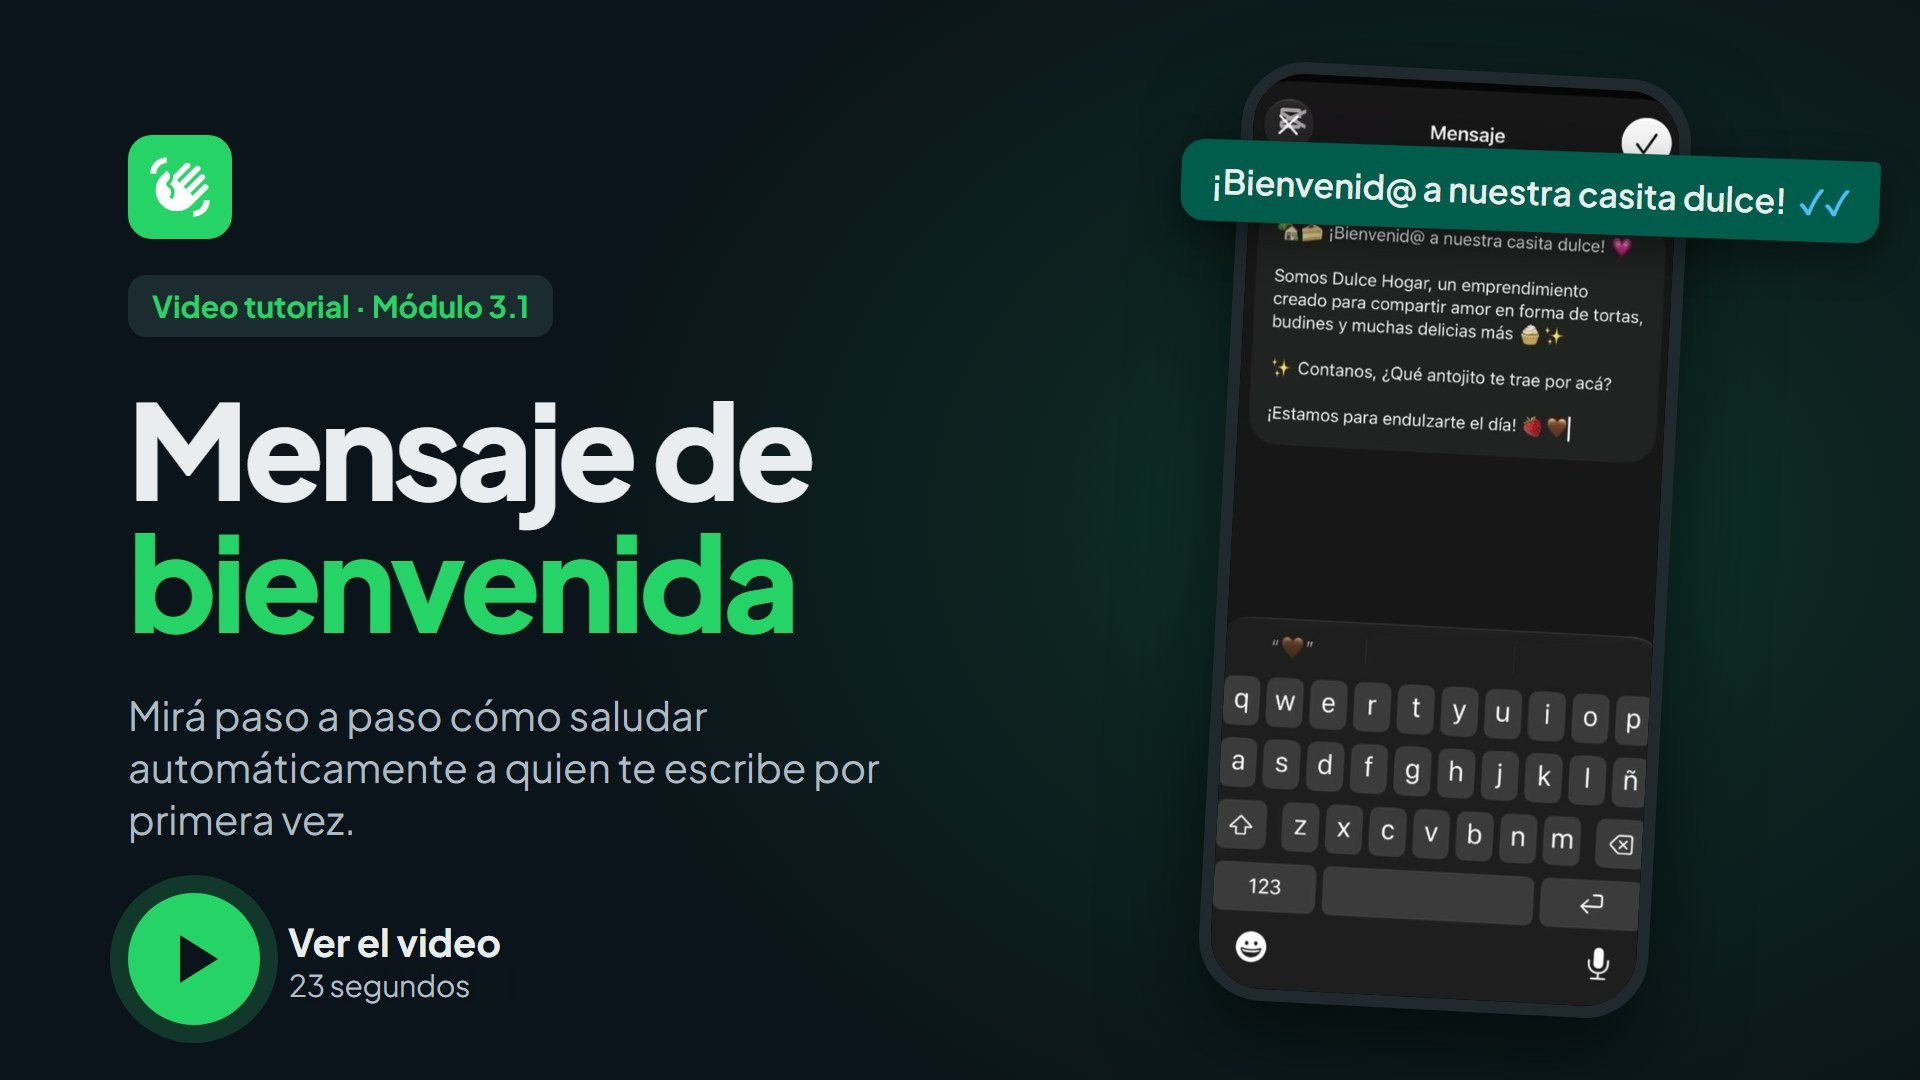
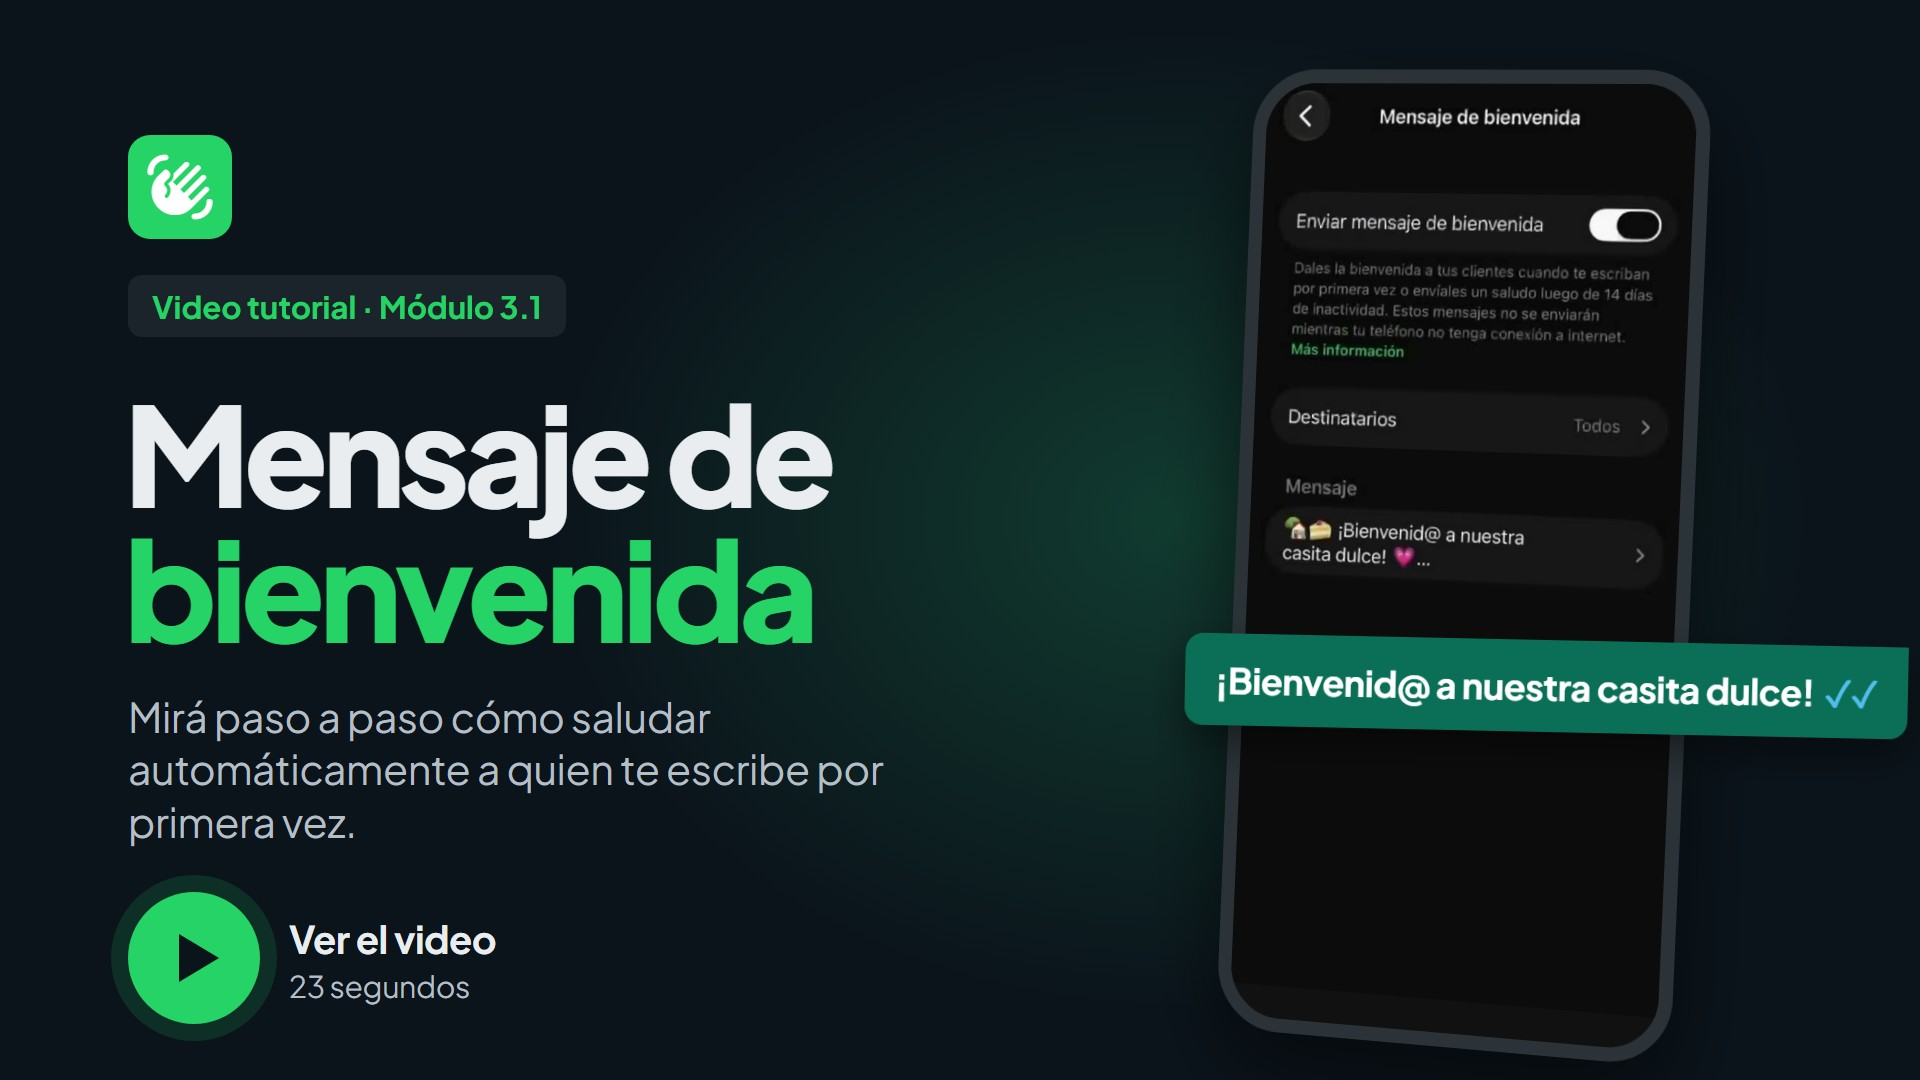
Módulo 3: portadas de video rehechas y versión en portadas/videos
- Las cuatro portadas del módulo 3 con el mismo diseño y capturas de los videos nuevos
- Globo de mensaje más abajo en 3.1, 3.2 y 3.4 (esquina superior derecha recta); 3.3 sin globo
- Número de versión en portadas y videos para que el navegador no muestre archivos viejos

diff --git a/modulo-3.html b/modulo-3.html
@@ -1142,10 +1142,10 @@ Continuar<span aria-hidden="true" class="material-symbols-outlined text-[20px]">
 
     // Video y podcast de cada submódulo (duration: duración exacta del video, se muestra en la pestaña Video)
     const sectionVideos = {
-      0: { src: 'video/modulo-3-1.mp4', cover: 'img/modulo-3/portada-video-3-1.jpg', duration: '0:23', caption: 'Grabación de pantalla · Activamos el mensaje de bienvenida de punta a punta' },
-      1: { src: 'video/modulo-3-2.mp4', cover: 'img/modulo-3/portada-video-3-2.jpg', duration: '0:28', caption: 'Grabación de pantalla · Configuramos el mensaje de ausencia, el horario y los destinatarios' },
-      2: { src: 'video/modulo-3-3.mp4', cover: 'img/modulo-3/portada-video-3-3.jpg', duration: '1:04', caption: 'Grabación de pantalla · Creamos una lista, le sumamos contactos y la usamos con un pedido' },
-      3: { src: 'video/modulo-3-4.mp4', cover: 'img/modulo-3/portada-video-3-4.jpg', duration: '0:54', caption: 'Grabación de pantalla · Creamos una respuesta rápida y la usamos en un chat' },
+      0: { src: 'video/modulo-3-1.mp4?v=2', cover: 'img/modulo-3/portada-video-3-1.jpg?v=5', duration: '0:23', caption: 'Grabación de pantalla · Activamos el mensaje de bienvenida de punta a punta' },
+      1: { src: 'video/modulo-3-2.mp4?v=2', cover: 'img/modulo-3/portada-video-3-2.jpg?v=5', duration: '0:28', caption: 'Grabación de pantalla · Configuramos el mensaje de ausencia, el horario y los destinatarios' },
+      2: { src: 'video/modulo-3-3.mp4?v=2', cover: 'img/modulo-3/portada-video-3-3.jpg?v=5', duration: '1:04', caption: 'Grabación de pantalla · Creamos una lista, le sumamos contactos y la usamos con un pedido' },
+      3: { src: 'video/modulo-3-4.mp4?v=2', cover: 'img/modulo-3/portada-video-3-4.jpg?v=5', duration: '0:54', caption: 'Grabación de pantalla · Creamos una respuesta rápida y la usamos en un chat' },
     };
     const sectionAudios = ['audio/modulo-3-1.mp3', 'audio/modulo-3-2.mp3', 'audio/modulo-3-3.mp3', 'audio/modulo-3-4.mp3'];
     const sectionAudioDurations = ['2:28', '2:52', '2:20', '2:51']; // duración exacta de cada podcast, se muestra en la pestaña Podcast

diff --git a/modulo-1.html b/modulo-1.html
@@ -333,7 +333,7 @@ Módulo 2<span aria-hidden="true" class="material-symbols-outlined text-[18px] t
 <div class="video-stage relative w-full rounded-2xl overflow-hidden bg-[#0b141a]" id="video-stage">
 <video class="absolute inset-0 w-full h-full object-contain" id="module-video" src="video/modulo-1.mp4" preload="metadata" playsinline controls hidden></video>
 <button class="group absolute inset-0 w-full h-full focus:outline-none focus-visible:ring-4 focus-visible:ring-secondary-fixed-dim" id="video-cover" type="button" aria-label="Reproducir el video: Configurá tu perfil comercial">
-<img alt="" class="w-full h-full object-cover transition-[filter] duration-300 group-hover:brightness-110" src="img/modulo-1/portada-video.jpg">
+<img alt="" class="w-full h-full object-cover transition-[filter] duration-300 group-hover:brightness-110" src="img/modulo-1/portada-video.jpg?v=2">
 </button>
 </div>
 <div class="flex items-center gap-2 px-2 sm:px-1 pt-3 pb-1.5 sm:pb-0 text-xs font-semibold text-on-surface-variant">

diff --git a/modulo-2.html b/modulo-2.html
@@ -333,7 +333,7 @@ Módulo 3<span aria-hidden="true" class="material-symbols-outlined text-[18px] t
 <div class="video-stage relative w-full rounded-2xl overflow-hidden bg-[#0b141a]" id="video-stage">
 <video class="absolute inset-0 w-full h-full object-contain" id="module-video" src="video/modulo-2.mp4" preload="metadata" playsinline controls hidden></video>
 <button class="group absolute inset-0 w-full h-full focus:outline-none focus-visible:ring-4 focus-visible:ring-secondary-fixed-dim" id="video-cover" type="button" aria-label="Reproducir el video: Cargá tu catálogo">
-<img alt="" class="w-full h-full object-cover transition-[filter] duration-300 group-hover:brightness-110" src="img/modulo-2/portada-video.jpg">
+<img alt="" class="w-full h-full object-cover transition-[filter] duration-300 group-hover:brightness-110" src="img/modulo-2/portada-video.jpg?v=2">
 </button>
 </div>
 <div class="flex items-center gap-2 px-2 sm:px-1 pt-3 pb-1.5 sm:pb-0 text-xs font-semibold text-on-surface-variant">
